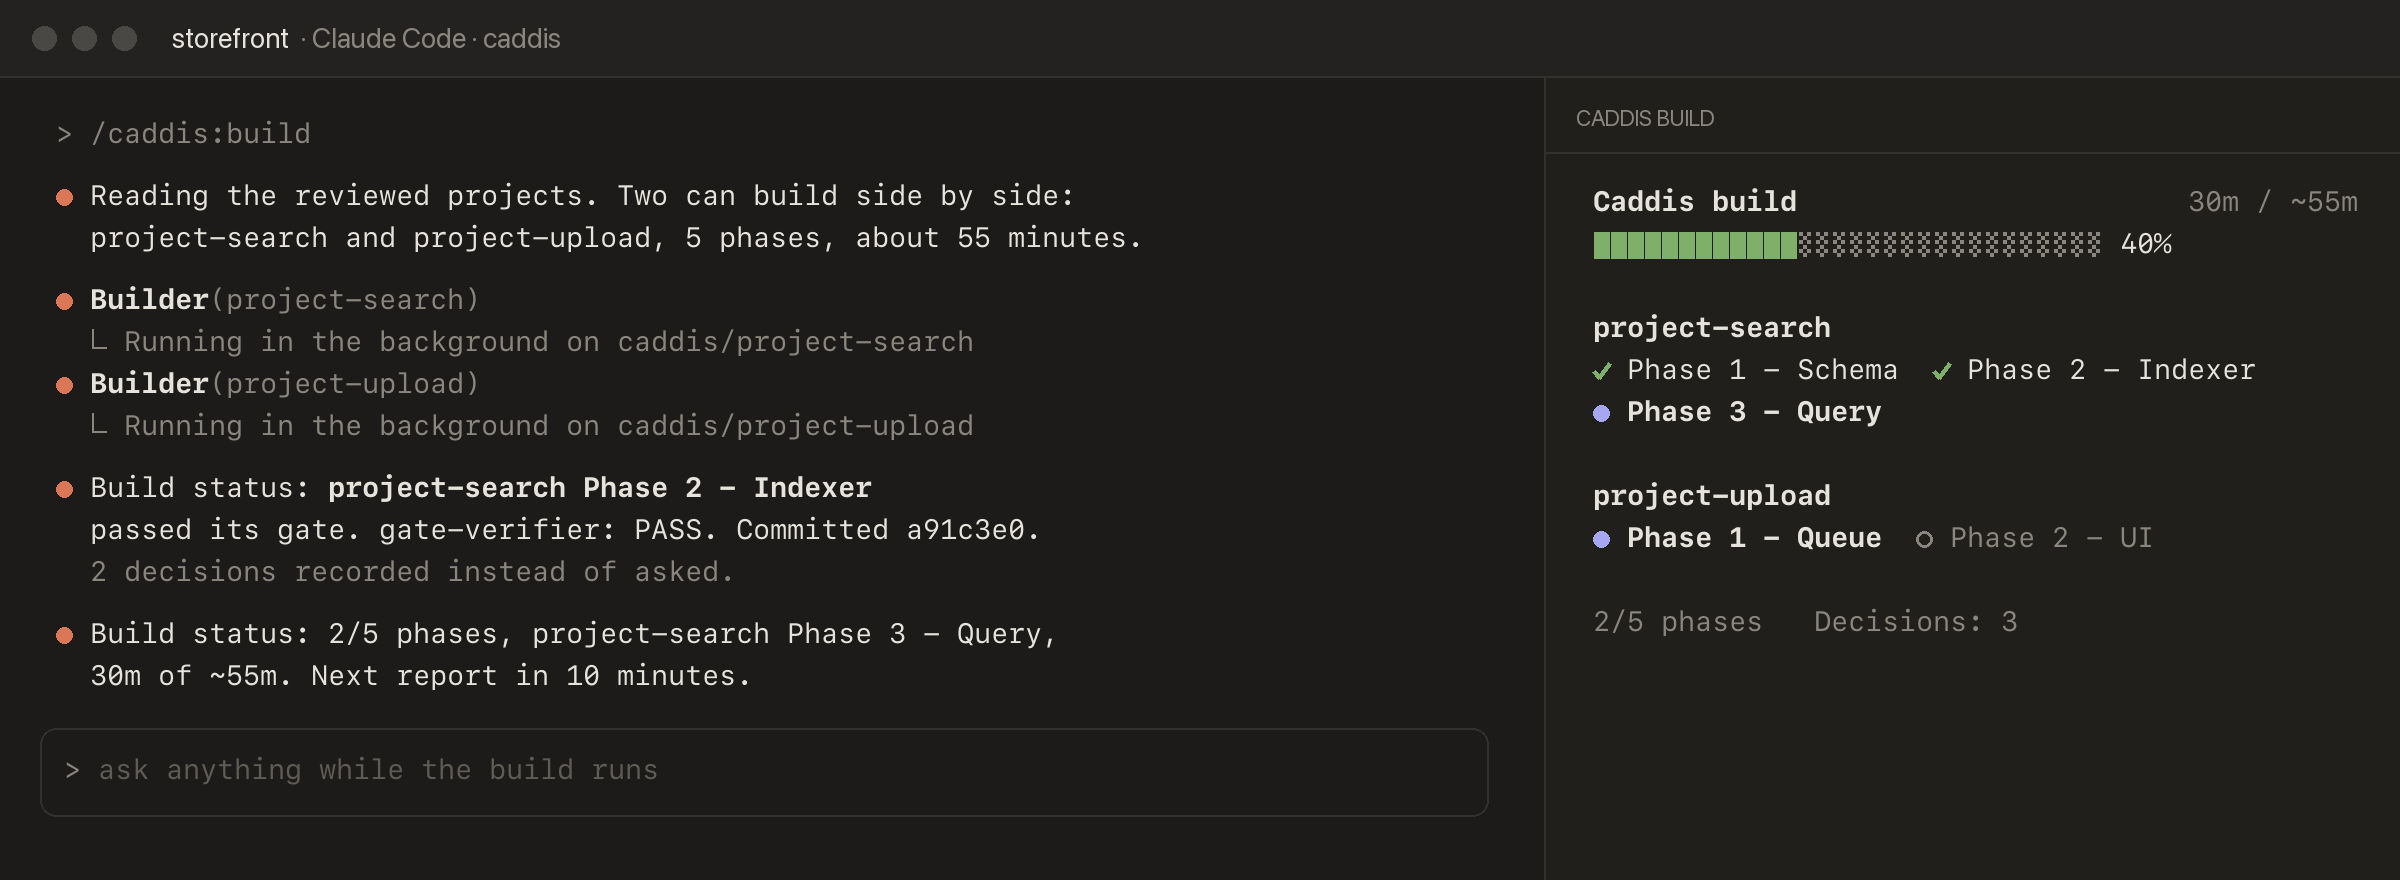
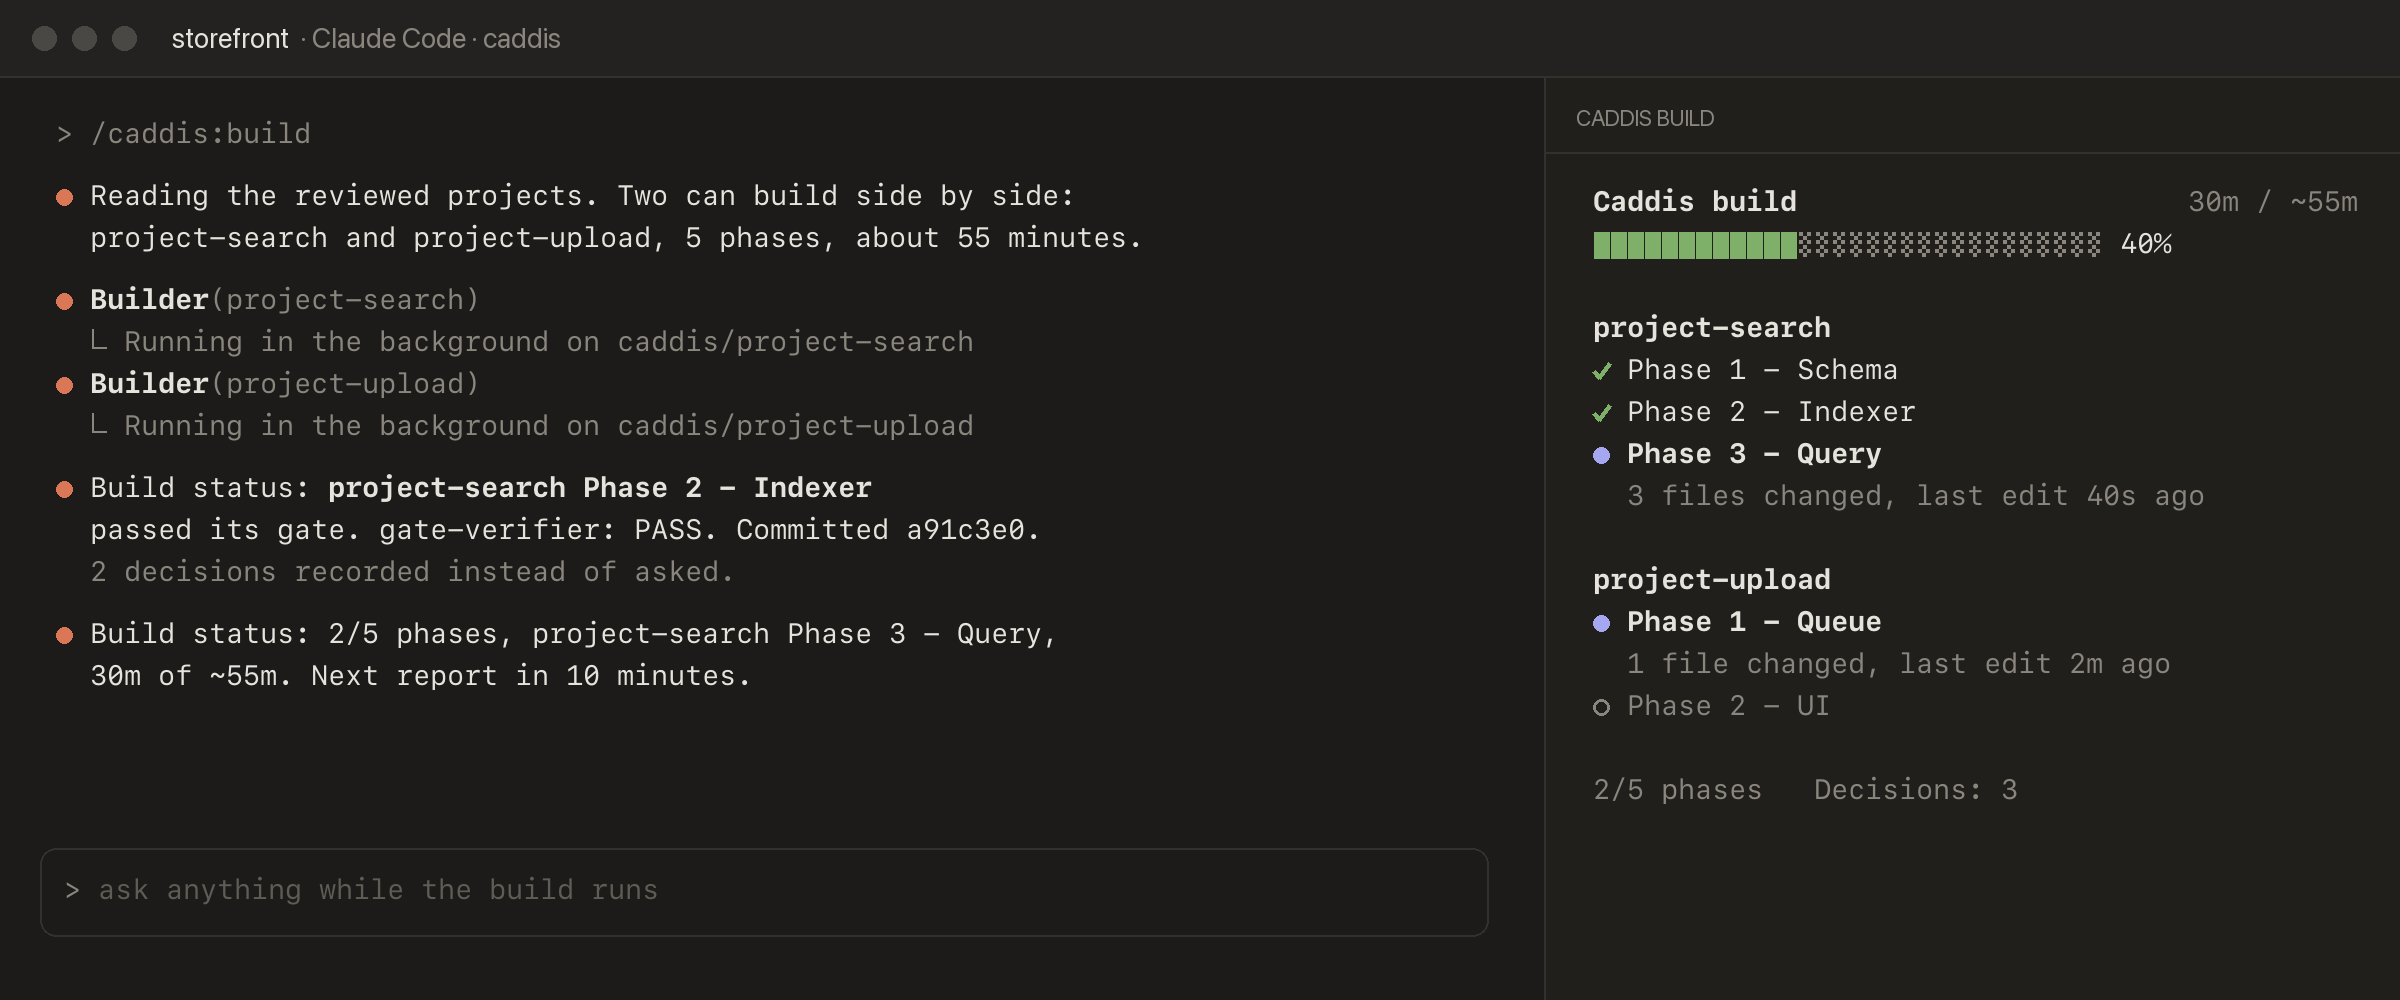
feat(panel): one phase per line and live activity under the phase in progress

diff --git a/plugin/hooks/panel.tsx b/plugin/hooks/panel.tsx
@@ -6,7 +6,7 @@
 import { atom, read, update } from 'claude-code'
 import type { Register } from 'claude-code'
 
-import type { BuildStatus, ProjectStatus } from '../types/panel-state'
+import type { Activity, BuildStatus, ProjectStatus } from '../types/panel-state'
 
 const PANE = 'caddis-build'
 const TITLE = 'Caddis build'
@@ -22,7 +22,7 @@ function statusLine(s: BuildStatus): string {
 }
 
 // Change a shape tag when its fields change: it declines what an older version stored.
-const build = atom({ plugin: 'caddis', key: 'build' } as const, null, { shape: 'build-1' })
+const build = atom({ plugin: 'caddis', key: 'build' } as const, null, { shape: 'build-2' })
 const watch = atom({ plugin: 'caddis', key: 'watch' } as const, { start: 0, status: false }, {
   shape: 'watch-1',
 })
@@ -44,6 +44,18 @@ function fmt(seconds: number): string {
   if (m < 1) return '<1m'
   if (m < 60) return `${m}m`
   return `${Math.floor(m / 60)}h${m % 60}m`
+}
+
+function ago(seconds: number): string {
+  return seconds < 60 ? `${Math.max(0, Math.floor(seconds))}s ago` : `${fmt(seconds)} ago`
+}
+
+// The line under the phase in progress, so a long phase still shows its builder working.
+function activityLine(a: Activity, now: number): string {
+  const edit = a.last_edit === null ? null : `last edit ${ago(now - a.last_edit)}`
+  if (a.changed === 0) return edit ?? 'no edits yet'
+  const files = `${a.changed} file${a.changed === 1 ? '' : 's'} changed`
+  return edit ? `${files}, ${edit}` : files
 }
 
 export const register: Register = on => {
@@ -132,22 +144,25 @@ export const register: Register = on => {
           <Text weight="bold">{p.name}</Text>
           {p.complete && <Text color="success">  complete</Text>}
         </Box>
-        <Box flexDirection="row" flexWrap="wrap">
-          {p.phases.length === 0 && <Text dimColor>no phases</Text>}
-          {p.phases.map(ph =>
-            ph.done ? (
+        {p.phases.length === 0 && <Text dimColor>no phases</Text>}
+        {p.phases.map(ph =>
+          ph.done ? (
+            <Text>
+              <Text color="success">✓</Text> {ph.name}
+            </Text>
+          ) : ph.name === p.current ? (
+            <Box flexDirection="column">
               <Text>
-                <Text color="success">✓</Text> {ph.name}{'  '}
+                <Text color="suggestion">●</Text> <Text weight="bold">{ph.name}</Text>
               </Text>
-            ) : ph.name === p.current ? (
-              <Text>
-                <Text color="suggestion">●</Text> <Text weight="bold">{ph.name}</Text>{'  '}
-              </Text>
-            ) : (
-              <Text dimColor>○ {ph.name}{'  '}</Text>
-            ),
-          )}
-        </Box>
+              {p.activity && !s.done && (
+                <Text dimColor>  {activityLine(p.activity, s.start + s.elapsed)}</Text>
+              )}
+            </Box>
+          ) : (
+            <Text dimColor>○ {ph.name}</Text>
+          ),
+        )}
       </Box>
     )
 

diff --git a/tests/panel/panel.test.tsx b/tests/panel/panel.test.tsx
@@ -49,6 +49,7 @@ function status(over: Record<string, unknown> = {}) {
         ],
         current: 'Phase 3 - Query',
         decisions: 2,
+        activity: { changed: 3, last_edit: 2760 },
       },
       {
         name: 'project-upload',
@@ -133,6 +134,31 @@ test('a new build opens the panel, drawn mid-build on every surface', async ($, 
     expect(await ui.find({ type: 'Text', text: /no commits or edits/ })).toBe(undefined)
     await ui.unmount()
   }
+})
+
+test('each phase has its own line, the one in progress with its activity', async ($, on) => {
+  world(on, {})
+  await start($, mock.clock(on))
+  for (const surface of SURFACES) {
+    const ui = await $.ui.mount({ ...PANE, surface })
+    expect(await ui.find({ type: 'Text', text: /Schema.*Indexer/ })).toBe(undefined)
+    expect((await ui.find({ type: 'Text', text: /files changed/ }))?.text).toBe(
+      '  3 files changed, last edit 40s ago',
+    )
+    await ui.unmount()
+  }
+})
+
+test('activity reads no edits yet, and minutes once a minute has passed', async ($, on) => {
+  const projects = (status().projects as Record<string, unknown>[]).map((p, i) =>
+    i === 0 ? { ...p, activity: { changed: 0, last_edit: null } } : { ...p, activity: { changed: 1, last_edit: 2500 } },
+  )
+  world(on, { file: status({ projects, current: 'project-search Phase 3 - Query' }) })
+  await start($, mock.clock(on))
+  const ui = await $.ui.mount({ ...PANE, surface: 'terminal' })
+  expect((await ui.find({ type: 'Text', text: /no edits yet/ }))?.text).toBe('  no edits yet')
+  expect((await ui.find({ type: 'Text', text: /1 file changed/ }))?.text).toBe('  1 file changed, last edit 5m ago')
+  await ui.unmount()
 })
 
 test('the bar fits a narrow pane', async ($, on) => {

diff --git a/plugin/types/panel-state.d.ts b/plugin/types/panel-state.d.ts
@@ -3,12 +3,17 @@
 
 export type PhaseStatus = { name: string; done: boolean }
 
+// A builder's work since its last commit: files changed and the newest edit or commit (epoch
+// seconds, null before any). null when the project is complete or no builder has started it.
+export type Activity = { changed: number; last_edit: number | null }
+
 export type ProjectStatus = {
   name: string
   complete: boolean
   phases: PhaseStatus[]
   current: string | null
   decisions: number
+  activity?: Activity | null
 }
 
 export type BuildStatus = {

diff --git a/tests/test_progress.py b/tests/test_progress.py
@@ -181,5 +181,45 @@ class StatusFileTest(ScriptTest):
         self.assertEqual(p["current"], 'Phase 1 - Say "hi"\\nowthen')
 
 
+    def test_activity_counts_changes_outside_caddis_in_this_checkout(self):
+        self.write_plan()
+        (self.repo / "app.py").write_text("x = 1\n")
+        (self.repo / "lib.py").write_text("y = 2\n")
+        self.run_for(5, 20)
+        a = self.status()["projects"][0]["activity"]
+        self.assertEqual(a["changed"], 2)
+        self.assertGreaterEqual(a["last_edit"], int(time.time()) - 10)
+
+    def test_activity_before_any_edit_has_no_last_edit(self):
+        self.write_plan()
+        old = time.time() - 30 * 60
+        os.utime(self.repo / PLAN, (old, old))
+        self.run_for(5, 20)
+        self.assertEqual(self.status()["projects"][0]["activity"], {"changed": 0, "last_edit": None})
+
+    def test_activity_reads_the_builders_worktree(self):
+        self.write_plan()
+        env = dict(os.environ, GIT_AUTHOR_NAME="t", GIT_AUTHOR_EMAIL="t@t",
+                   GIT_COMMITTER_NAME="t", GIT_COMMITTER_EMAIL="t@t")
+        (self.repo / "app.py").write_text("x = 1\n")
+        subprocess.run(["git", "add", "-A"], cwd=self.repo, check=True)
+        subprocess.run(["git", "commit", "-qm", "base"], cwd=self.repo, env=env, check=True)
+        wt = Path(tempfile.mkdtemp()) / "wt"
+        self.addCleanup(shutil.rmtree, wt.parent)
+        subprocess.run(["git", "worktree", "add", "-q", "-b", "caddis/demo", str(wt)],
+                       cwd=self.repo, check=True)
+        (wt / "app.py").write_text("x = 2\n")
+        (wt / "new.py").write_text("z = 3\n")
+        (self.repo / "other.py").write_text("not the builder's\n")
+        self.run_for(5, 20)
+        self.assertEqual(self.status()["projects"][0]["activity"]["changed"], 2)
+
+    def test_complete_project_has_no_activity(self):
+        self.write_plan()
+        shutil.move(self.repo / PLAN, self.repo / ".caddis/projects/completed/project-demo.md")
+        self.run_for(1, 20)
+        self.assertIsNone(self.status()["projects"][0]["activity"])
+
+
 if __name__ == "__main__":
     unittest.main()

diff --git a/README.md b/README.md
@@ -321,9 +321,11 @@ or file changes for 20 minutes is flagged as possibly stuck.
 ![The Caddis build panel beside the chat: two projects building side by side, 2 of 5 phases done](docs/build-panel.png)
 
 In Claude Code versions with mods, a **Caddis build** panel also opens beside the chat when a
-build starts: each project's phases, the one in progress, a progress bar, time against the
-estimate and a warning when the build goes quiet. A phase counts as soon as its builder
-finishes it, before its branch is merged. The panel stays open showing done. `/caddis-panel` opens it again. Where a panel can't be placed, or with
+build starts: each project's phases, one to a line, a progress bar, time against the
+estimate and a warning when the build goes quiet. Under the phase in progress, the files its
+builder has changed since its last commit and how long ago it last edited, so a long phase
+still shows work happening. A phase counts as soon as its builder finishes it, before its
+branch is merged. The panel stays open showing done. `/caddis-panel` opens it again. Where a panel can't be placed, or with
 `Build panel: off` in the Workflow section, the same progress shows on the status line under
 the prompt. The text reports above stay the same everywhere, so surfaces without mods lose
 nothing.

diff --git a/plugin/README.md b/plugin/README.md
@@ -47,7 +47,8 @@ Projects that share no files build side by side, each in its own copy of the cod
 merged one at a time with the tests run after each merge. A project that depends on another
 waits for it.
 
-While a build runs, a Caddis build panel beside the chat shows each phase as it finishes.
+While a build runs, a Caddis build panel beside the chat shows each phase as it finishes,
+and the files changed in the phase in progress.
 Where a panel can't be drawn, or with `Build panel: off`, the status line shows it instead.
 
 ![The Caddis build panel beside the chat](https://raw.githubusercontent.com/adivmaimon/caddis/main/docs/build-panel.png)
